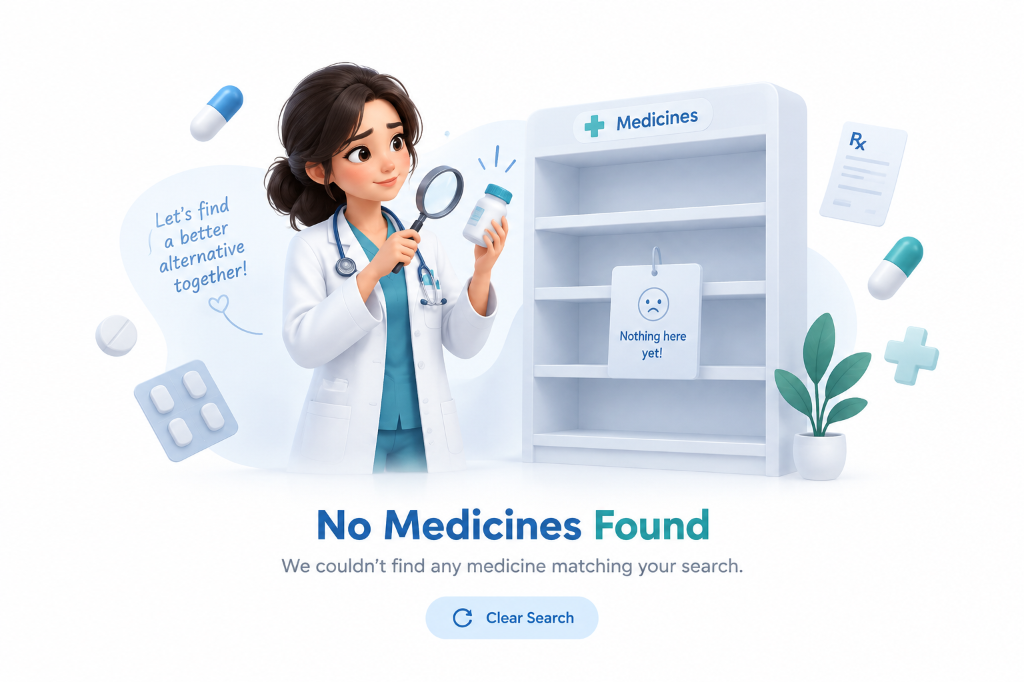
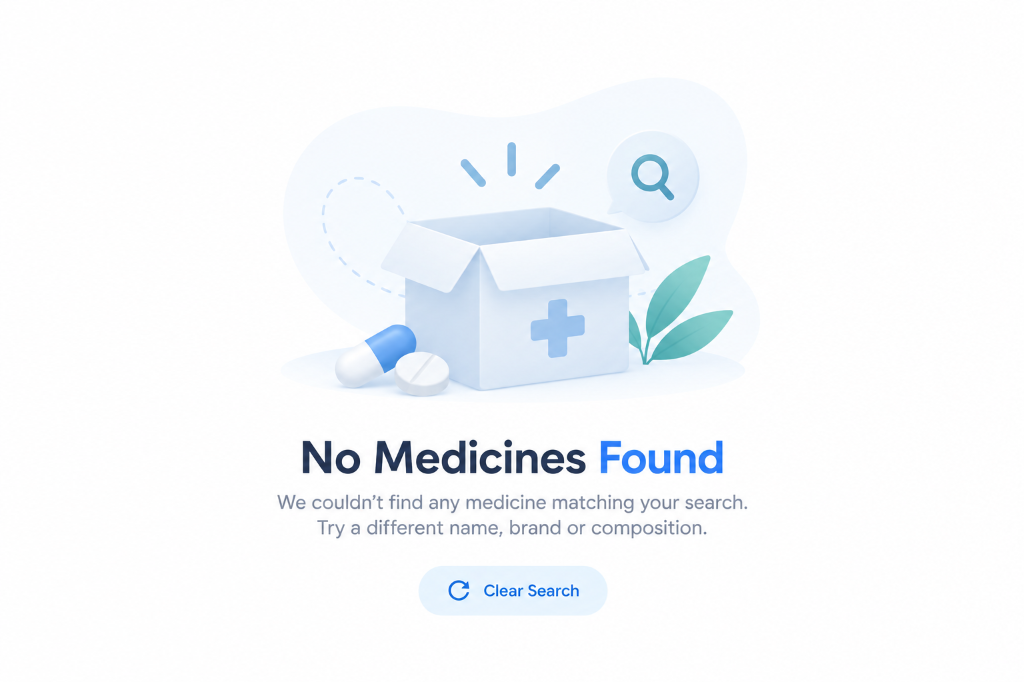
Updates for no medicine found

Changed region(s): [[0.125, 0.0924, 0.9375, 0.9545], [0.8438, 0.3387, 0.9062, 0.4619], [0.0938, 0.4619, 0.1562, 0.5235]]

diff --git a/src/Components/shared/NoMedicinesFound.jsx b/src/Components/shared/NoMedicinesFound.jsx
@@ -3,7 +3,7 @@ import React from "react";
 export function NoMedicinesFound({ onClearSearch }) {
   return (
     <div className="w-full py-6 sm:py-10 flex flex-col items-center justify-center bg-transparent border-0 shadow-none text-center select-none">
-      <div className="relative inline-block w-full max-w-[320px] sm:max-w-[380px] md:max-w-[420px] mx-auto">
+      <div className="relative inline-block w-full max-w-[360px] sm:max-w-[440px] md:max-w-[500px] mx-auto">
         
         {/* Real 3D Medical Illustration Image that mixes seamlessly into the page */}
         <img
@@ -12,13 +12,13 @@ export function NoMedicinesFound({ onClearSearch }) {
           className="w-full h-auto object-contain mix-blend-multiply pointer-events-auto block"
         />
 
-        {/* Interactive Clear Search Button overlay matching the exact position in the image */}
+        {/* Interactive Clear Search Button overlay matching the exact position in the new image */}
         <button
           type="button"
           onClick={onClearSearch}
           aria-label="Clear Search"
           title="Clear Search"
-          className="absolute bottom-[4.8%] left-1/2 -translate-x-1/2 w-[42%] h-[9%] rounded-full cursor-pointer transition-all duration-200 hover:bg-blue-500/15 active:scale-95 ring-2 ring-transparent hover:ring-blue-400/40"
+          className="absolute top-[82.5%] left-1/2 -translate-x-1/2 w-[20%] min-w-[120px] h-[7.5%] min-h-[34px] rounded-full cursor-pointer transition-all duration-200 hover:bg-blue-500/15 active:scale-95 ring-2 ring-transparent hover:ring-blue-400/40"
         />
 
       </div>
